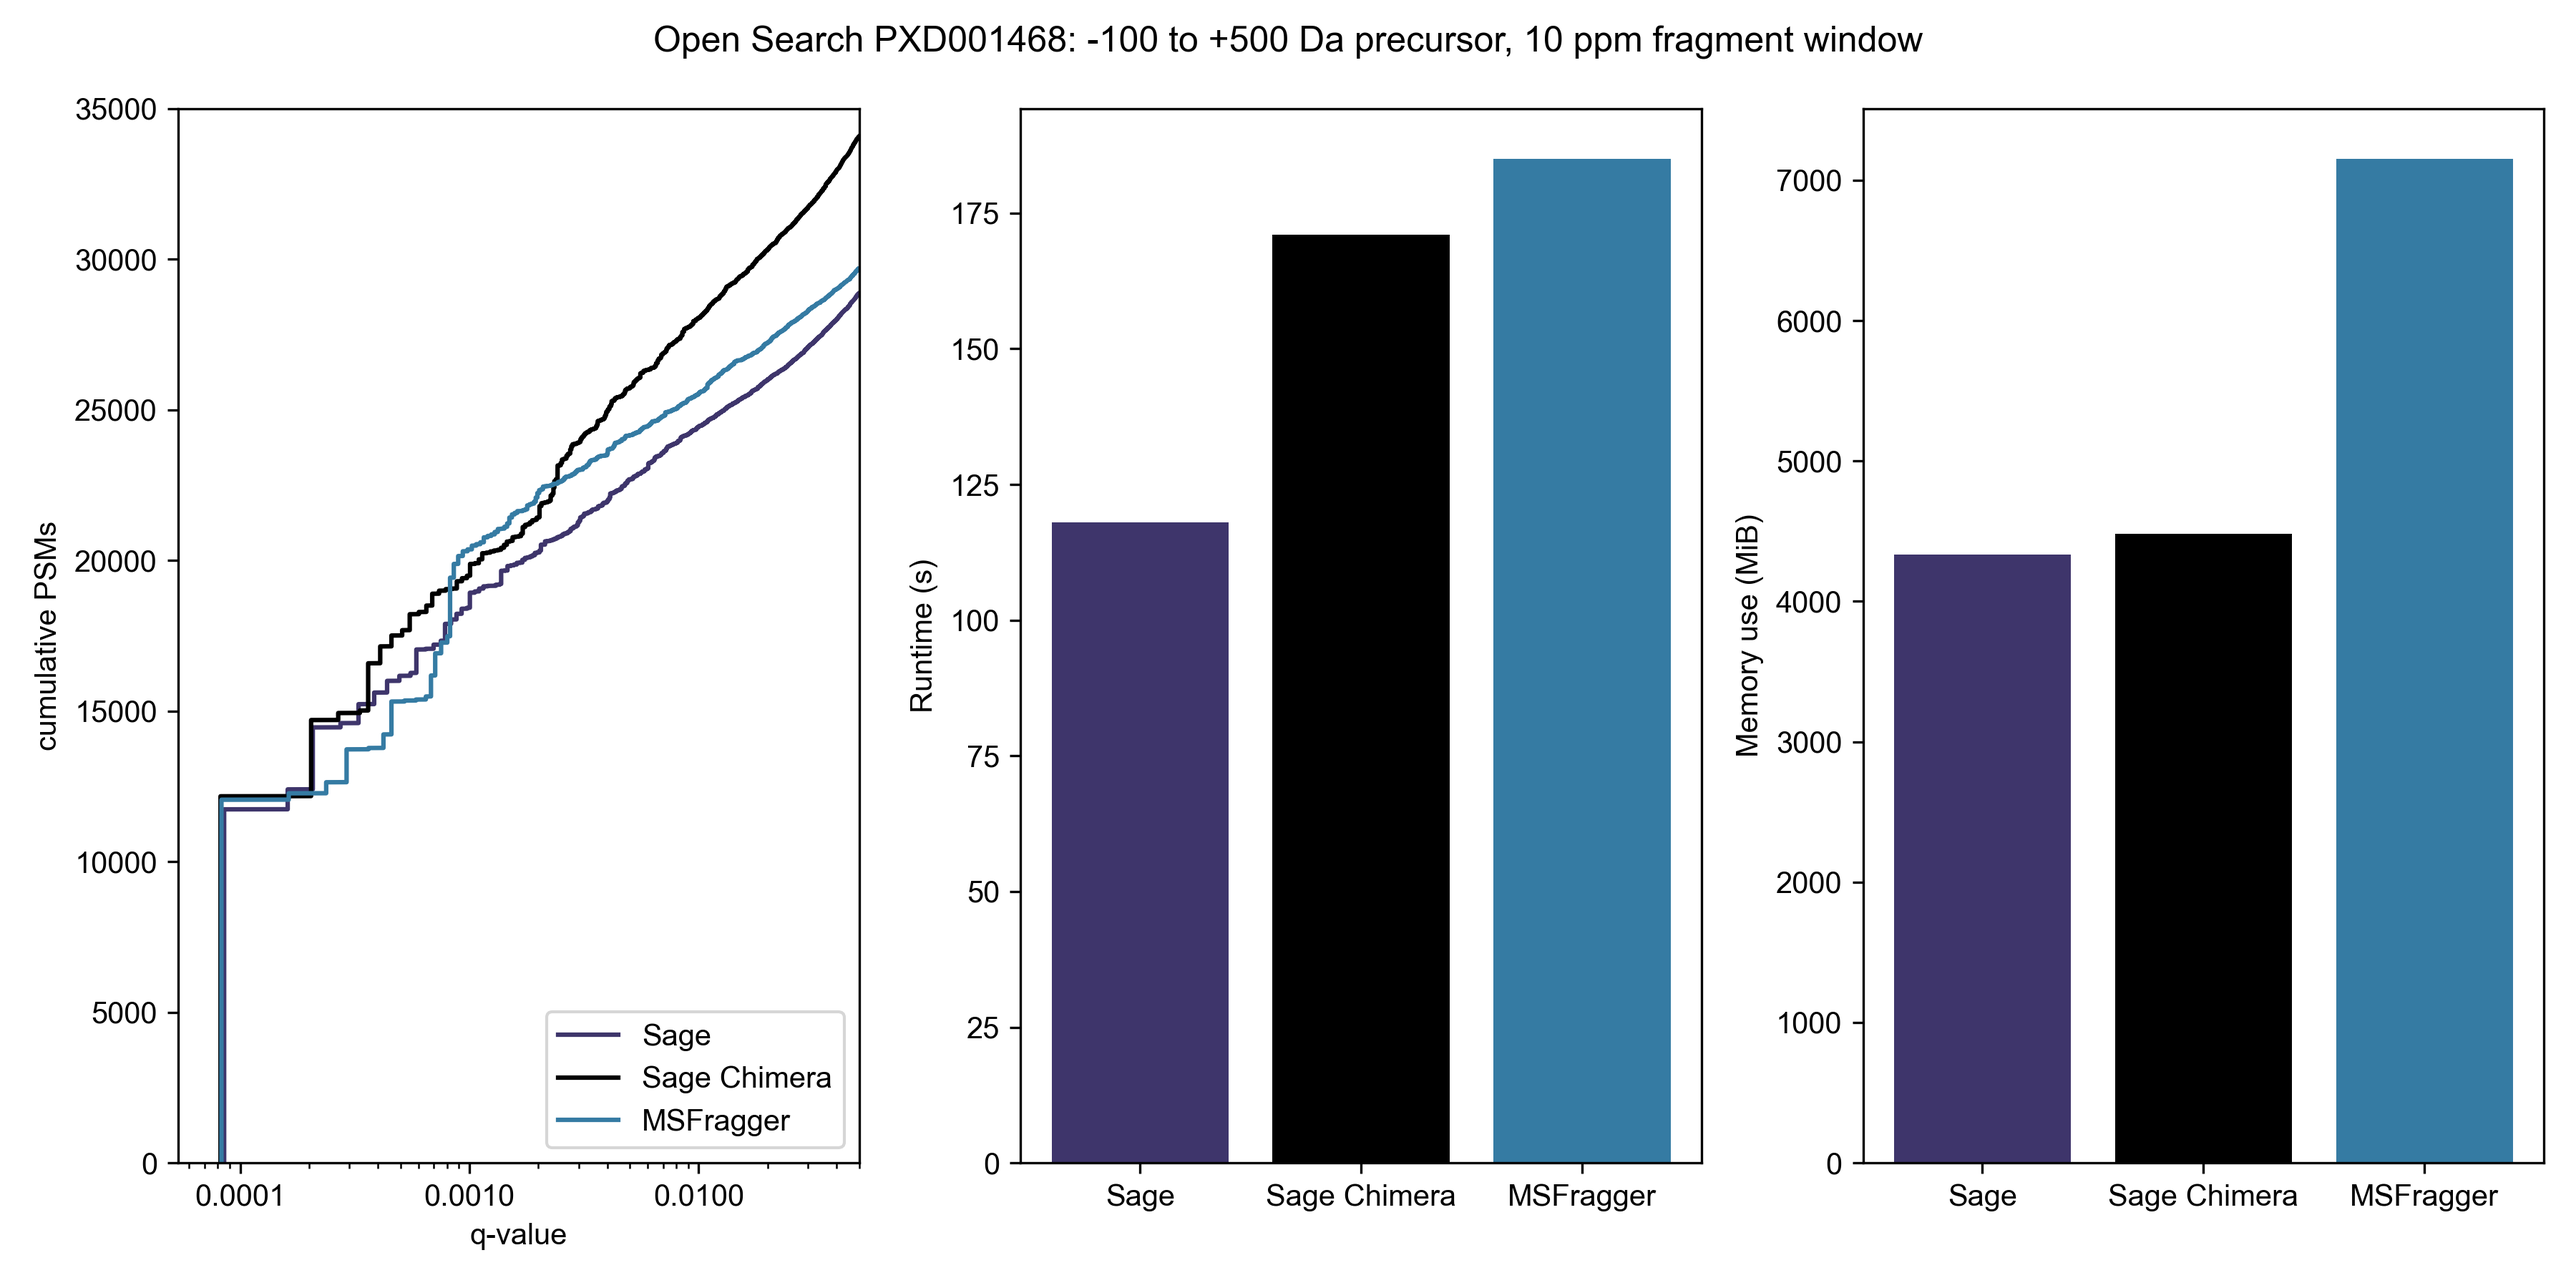
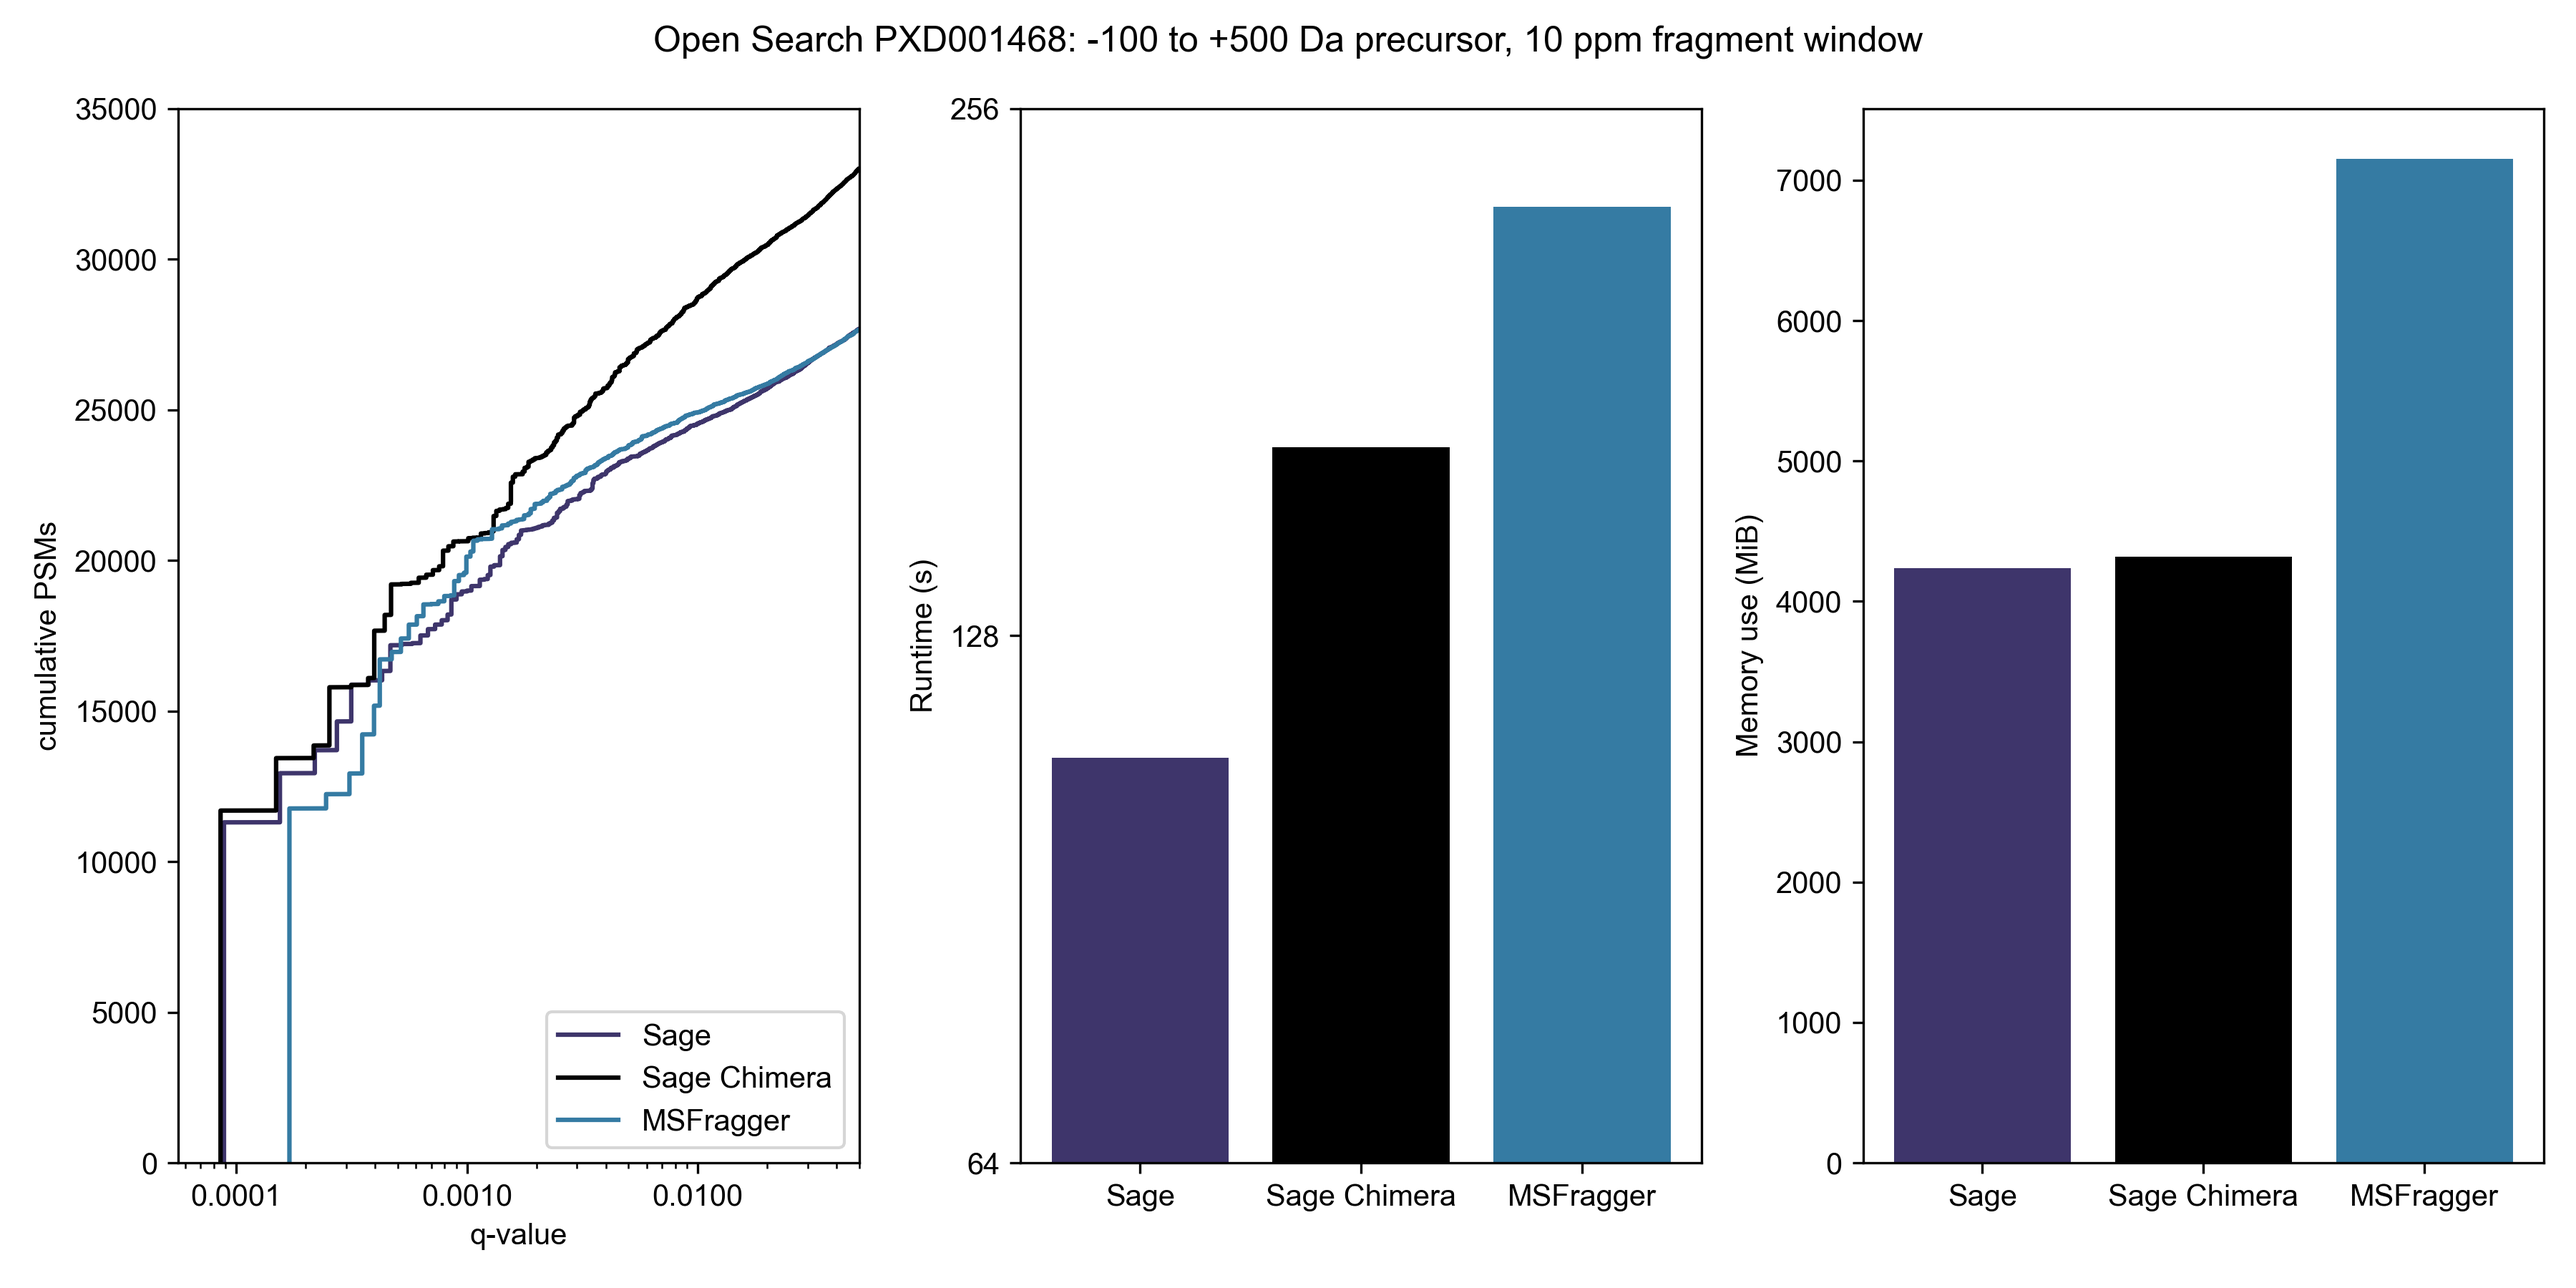
update

diff --git a/docs/index.html b/docs/index.html
@@ -414,13 +414,9 @@
           chemoproteomic applications.
 
           <img src="500_search.png" class="large" />
-          <figcaption>MSFragger gains a ~5% lead as the precursor windows get wider</figcaption>
+          <figcaption>MSFragger maintains a ~2% lead as the precursor windows get wider</figcaption>
 
           <p>
-            And, this is where MSFragger really shines - it identifies ~1,000 extra PSMs from this single file search
-            when we
-            really open up the precursor window. Room for improvement for Sage! (Read below to see one strategy of
-            improving this - chimeric searching)
             You'll note that Comet isn't in this graph - I don't think there's any point in benchmarking it, timewise,
             and
             it also doesn't seem amenable to doing a non-symmetrical precursor window. Given that most modifications
@@ -443,7 +439,7 @@
               <tr>
                 <td>Sage</td>
                 <td>109 s</td>
-                <td>24,432</td>
+                <td>24,542</td>
               </tr>
               <tr>
                 <td><a href="#chimera">Sage Chimera</a></td>
@@ -453,7 +449,7 @@
               <tr>
                 <td>MSFragger</td>
                 <td>225 s</td>
-                <td>25,534</td>
+                <td>24,911</td>
               </tr>
             </tbody>
           </table>
